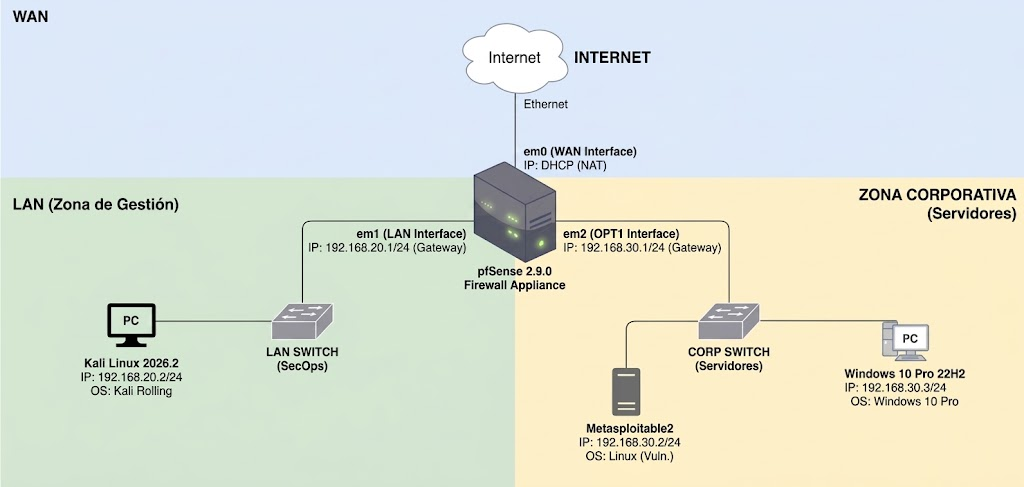
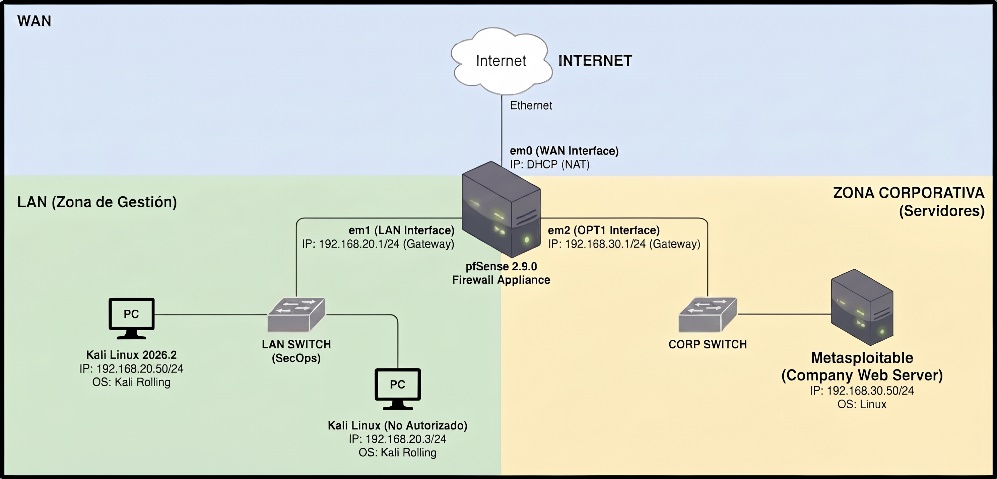
docs: correct lab report source, architecture and evidence provenance

diff --git a/docs/evidencias.md b/docs/evidencias.md
@@ -4,7 +4,7 @@
 
 ## Procedencia y lectura
 
-Las capturas proceden del DOCX principal. Se conservaron 15 de sus 43 imágenes, seleccionadas por pertinencia y ausencia de credenciales visibles. Se excluyen capturas con secretos, material redundante y pasos intermedios no necesarios para este miniproyecto. Los originales permanecen localmente.
+Las capturas proceden del DOCX principal. Se conservaron 15 de sus 42 imágenes únicas, seleccionadas por pertinencia y ausencia de credenciales visibles. Se sustituyó el diagrama por el de la versión corregida; las otras 14 capturas coinciden por SHA-256 con archivos de esa versión. Se excluyen capturas con secretos, material redundante y pasos intermedios no necesarios para este miniproyecto. Los originales permanecen localmente.
 
 Las imágenes se exportaron como PNG sin los metadatos originales. No se alteraron resultados ni se generaron pantallas de pruebas. La correspondencia y huellas están en [evidencias.json](../metadata/evidencias.json).
 
@@ -12,11 +12,11 @@ Las imágenes se exportaron como PNG sin los metadatos originales. No se alterar
 
 ## E-01 · Arquitectura declarada
 
-Diagrama original; identifica zonas, gateways y hosts del inventario inicial. No certifica las IP finales ni la versión instalada.
+Diagrama del informe corregido: pfSense, Kali administrativa `.20.50`, Kali no autorizada `.20.3` y Metasploitable2 `.30.50`. No incluye Windows. Se conserva como diseño declarado, no como certificación del estado de ejecución.
 
 ![Arquitectura declarada](../assets/evidencias/arquitectura-original.png)
 
-Origen: imagen 2 del documento principal.
+Origen: imagen 2 del documento corregido.
 
 ## E-02 · Conectividad inicial
 
@@ -24,7 +24,7 @@ Respuestas de ping hacia gateway y objetivo. Solo demuestra conectividad a los d
 
 ![Conectividad inicial](../assets/evidencias/conectividad-inicial.png)
 
-Origen: imagen 3 del documento principal.
+Origen: imagen 3 del documento corregido.
 
 ## E-03 · Tabla ARP del cliente
 
@@ -32,7 +32,7 @@ Asociaciones observadas durante el escenario inicial. La repetición de una MAC 
 
 ![Tabla ARP del cliente](../assets/evidencias/arp-cliente-inicial.png)
 
-Origen: imagen 4 del documento principal.
+Origen: imagen 4 del documento corregido.
 
 ## E-04 · Configuración Static ARP
 
@@ -40,7 +40,7 @@ Opción habilitada y dos mapeos visibles (.100 y .101). La narrativa menciona un
 
 ![Configuración Static ARP](../assets/evidencias/static-arp-configuracion.png)
 
-Origen: imagen 6 del documento principal.
+Origen: imagen 5 del documento corregido.
 
 ## E-05 · Tabla ARP del gateway
 
@@ -48,7 +48,7 @@ Captura de pfSense incluida como estado posterior. No sustituye una prueba de pr
 
 ![Tabla ARP del gateway](../assets/evidencias/arp-gateway-posterior.png)
 
-Origen: imagen 7 del documento principal.
+Origen: imagen 7 del documento corregido.
 
 ## E-06 · Intento de conectividad posterior
 
@@ -56,7 +56,7 @@ La salida indica Network is unreachable. No prueba por sí sola descarte de paqu
 
 ![Intento de conectividad posterior](../assets/evidencias/conectividad-posterior.png)
 
-Origen: imagen 8 del documento principal.
+Origen: imagen 8 del documento corregido.
 
 ## E-07 · Registros de filtrado Telnet
 
@@ -64,7 +64,7 @@ Bloqueos al puerto 23 desde .30 y acceso permitido desde .100. Evidencia filtrad
 
 ![Registros de filtrado Telnet](../assets/evidencias/telnet-registros-firewall.png)
 
-Origen: imagen 11 del documento principal.
+Origen: imagen 11 del documento corregido.
 
 ## E-08 · Acceso SSH con clave
 
@@ -72,7 +72,7 @@ Comando con clave explícita y sesión exitosa sin solicitud de contraseña visi
 
 ![Acceso SSH con clave](../assets/evidencias/ssh-acceso-clave.png)
 
-Origen: imagen 12 del documento principal.
+Origen: imagen 12 del documento corregido.
 
 ## E-09 · Intento SSH rechazado
 
@@ -80,7 +80,7 @@ Connection refused en un intento documentado. Interpretar junto con reglas y reg
 
 ![Intento SSH rechazado](../assets/evidencias/ssh-origen-rechazado.png)
 
-Origen: imagen 13 del documento principal.
+Origen: imagen 13 del documento corregido.
 
 ## E-10 · Flujo SSH capturado
 
@@ -88,7 +88,7 @@ Banner/negociación visibles y carga posterior no legible como credenciales en c
 
 ![Flujo SSH capturado](../assets/evidencias/ssh-captura-flujo.png)
 
-Origen: imagen 14 del documento principal.
+Origen: imagen 14 del documento corregido.
 
 ## E-11 · Registro de fail2ban
 
@@ -96,7 +96,7 @@ Eventos de fallos de autenticación y acciones Ban/Unban. El log reúne momentos
 
 ![Registro de fail2ban](../assets/evidencias/fail2ban-registros.png)
 
-Origen: imagen 15 del documento principal.
+Origen: imagen 15 del documento corregido.
 
 ## E-12 · Captura TLS del laboratorio
 
@@ -104,7 +104,7 @@ Negociación TLSv1 y datos cifrados. TLS 1.0 es una limitación legacy, no una c
 
 ![Captura TLS del laboratorio](../assets/evidencias/tls-captura-flujo.png)
 
-Origen: imagen 16 del documento principal.
+Origen: imagen 16 del documento corregido.
 
 ## E-13 · Parámetros SSH declarados
 
@@ -112,7 +112,7 @@ Salida de configuración: root deshabilitado, claves habilitadas y contraseñas 
 
 ![Parámetros SSH declarados](../assets/evidencias/sshd-parametros.png)
 
-Origen: imagen 34 del documento principal.
+Origen: imagen 34 del documento corregido.
 
 ## E-14 · Reglas SSH por origen
 
@@ -120,7 +120,7 @@ Regla de permiso administrativa y regla de bloqueo posterior. Nombres de alias n
 
 ![Reglas SSH por origen](../assets/evidencias/ssh-reglas-origen.png)
 
-Origen: imagen 37 del documento principal.
+Origen: imagen 37 del documento corregido.
 
 ## E-15 · Parámetros fail2ban de prueba
 
@@ -128,12 +128,12 @@ maxretry=3 y bantime=30. Valores para el ejercicio; no se presentan como políti
 
 ![Parámetros fail2ban de prueba](../assets/evidencias/fail2ban-parametros.png)
 
-Origen: imagen 39 del documento principal.
+Origen: imagen 39 del documento corregido.
 
 ## Material no publicado
 
 Se omitieron las capturas Telnet/HTTP con credenciales en claro, pantallas de autenticación innecesarias, resultados sensibles de pruebas de contraseñas y pantallas de preparación redundantes. Su exclusión impide usar este repo para recuperar secretos del laboratorio.
 
-Windows/RDP/auditoría no cuenta con evidencia específica suficiente en este conjunto. No se declara su validación.
+Windows/RDP/auditoría no forma parte del desarrollo técnico de la versión corregida. La fila Windows que permanece en el anexo 2 no se utiliza como evidencia de ejecución.
 
 La evidencia de conectividad posterior y el log Telnet tienen límites señalados: error de ruta y excepción de acceso, respectivamente. No se interpretan como aislamiento universal ni eliminación total de protocolos inseguros.

diff --git a/docs/informe-tecnico.md b/docs/informe-tecnico.md
@@ -10,7 +10,7 @@ El proyecto estudió dos problemas relacionados: la conectividad de un dispositi
 
 La estrategia combinó protección del gateway, filtrado de servicios, autenticación SSH por clave, cifrado web y controles locales de autenticación. La selección de capturas permite revisar parte de los cambios y sus resultados; las afirmaciones del informe original que no tienen evidencia suficiente se mantienen como **declaradas**, no como verificadas.
 
-Este documento es una adaptación profesional del trabajo académico, no un acta de ejecución nueva. No se iniciaron máquinas, escáneres ni servicios al elaborarlo.
+Esta edición se basa en el informe corregido aportado por el usuario, que sustituye la fuente seleccionada para la primera publicación. Es una adaptación profesional del trabajo académico, no un acta de ejecución nueva. No se iniciaron máquinas, escáneres ni servicios al elaborarlo.
 
 ## 2. Objetivos y alcance
 
@@ -30,13 +30,13 @@ Documentar cómo controles complementarios pueden reducir riesgos de acceso no a
 
 ### Fuera del alcance
 
-No se evaluaron todos los servicios, no se corrigieron las vulnerabilidades de Metasploitable2/DVWA, no se realizó una auditoría integral de Windows y no se implementaron controles de switch administrable. La documentación no demuestra una política completa de filtrado saliente ni una validación exhaustiva de todas las reglas.
+No se evaluaron todos los servicios, no se corrigieron las vulnerabilidades de Metasploitable2/DVWA y no se implementaron controles de switch administrable. Windows, RDP y eventos de auditoría Windows no se incluyen como componentes ni controles del desarrollo corregido. La documentación no demuestra una política completa de filtrado saliente ni una validación exhaustiva de todas las reglas.
 
 ## 3. Entorno
 
-La arquitectura declarada utiliza VMware Workstation Pro. pfSense conecta WAN por NAT, LAN–Gestión en VMnet2 (`192.168.20.0/24`) y CORPORATIVA en VMnet3 (`192.168.30.0/24`). Kali representa una estación administrativa/de auditoría y los objetivos incluyen Metasploitable2 y Windows 10 Pro.
+La arquitectura declarada utiliza VMware Workstation Pro. pfSense conecta WAN por NAT, LAN–Gestión en VMnet2 (`192.168.20.0/24`) y CORPORATIVA en VMnet3 (`192.168.30.0/24`). Kali representa las estaciones de administración/auditoría y de prueba no autorizada; Metasploitable2 es el servidor corporativo descrito en el cuerpo del informe y en el diagrama corregido.
 
-El informe identifica pfSense como 2.9.0. Se registra esa versión como declarada por el trabajo, sin contrastarla contra una instancia activa. La topología usa `.2` para Kali y Metasploitable, mientras varias pruebas usan `.100`. La [documentación de arquitectura](arquitectura.md) conserva la discrepancia; no se ha supuesto un estado final.
+El informe identifica pfSense como 2.9.0. Se registra esa versión como declarada por el trabajo, sin contrastarla contra una instancia activa. El nuevo diagrama usa `192.168.20.50` para la estación administrativa, `192.168.20.3` para la no autorizada y `192.168.30.50` para el servidor. La tabla del anexo 2 aún usa `.2` y conserva una fila Windows; varias capturas usan `.100` y `.30`. La [documentación de arquitectura](arquitectura.md) distingue esos niveles de evidencia sin inventar un estado final.
 
 ## 4. Escenario de riesgo
 
@@ -96,11 +96,9 @@ Se documenta un jail para SSH con tres reintentos y un bloqueo de 30 segundos pa
 
 Las notas complementarias mencionan otros tiempos y nombres de jail. Se toma como referencia de la prueba el valor mostrado en la captura, sin imponerlo como una política adecuada para cualquier entorno.
 
-### C-06. Windows: RDP y auditoría
+### Delimitación del alcance corregido
 
-El informe describe filtrado de RDP por IP y auditoría de autenticación con eventos 4624/4625. No se dispone de capturas específicas suficientes dentro de la evidencia conservada para validar esas medidas. Se mantienen como **controles declarados pendientes de evidencia**, no como resultados demostrados.
-
-Se evita la afirmación del texto original de que los registros son inalterables: la política de auditoría, los permisos, la retención y la protección de registros deben evaluarse. No todo bloqueo de red se traduce necesariamente en un evento de autenticación fallida.
+Se retiran de esta edición los controles de RDP, los eventos 4624/4625 y la auditoría de Windows que se habían trasladado desde el informe anterior. No se convierten en tareas pendientes del proyecto: ya no forman parte de su desarrollo. La fila Windows que aún aparece en el anexo 2 se registra únicamente como una referencia residual del documento fuente.
 
 ## 6. Validación y resultados
 
@@ -112,7 +110,6 @@ Se evita la afirmación del texto original de que los registros son inalterables
 | ¿Se logró acceso SSH usando una clave? | Comando y sesión exitosa | Acceso observado; no verifica todos los métodos alternativos |
 | ¿La captura seguía mostrando credenciales legibles tras la migración? | Flujos SSH/TLS seleccionados | La carga mostrada no es legible como las comunicaciones iniciales descritas |
 | ¿Actuó fail2ban? | Parámetros y log con bloqueo | Acción de bloqueo documentada en el escenario |
-| ¿Se validó la auditoría/RDP de Windows? | Narrativa sin evidencia específica suficiente | Pendiente |
 
 La selección se detalla en [Evidencias](evidencias.md). Se excluyen capturas con contraseñas, cookies o resultados sensibles y no se publican archivos de captura completos.
 
@@ -128,5 +125,5 @@ La compatibilidad criptográfica legacy, la falta de una exportación operativa 
 2. Static ARP en pfSense no debe presentarse como una solución integral contra ARP spoofing en toda la LAN.
 3. El acceso SSH por clave y el cambio de protocolos reducen exposición en el caso evaluado, sin corregir las aplicaciones deliberadamente vulnerables.
 4. fail2ban aporta una reacción documentada a intentos fallidos, no garantía ante cualquier abuso de credenciales.
-5. Las afirmaciones sobre Windows y la configuración exacta requieren evidencia adicional.
+5. El alcance técnico vigente es pfSense y Linux. La fila residual de Windows del anexo y las diferencias de IP no se convierten en controles o pruebas realizados.
 6. El resultado más valioso es la trazabilidad: problema, control, prueba, limitación y siguiente paso. Una configuración funcional no equivale a seguridad absoluta.

diff --git a/docs/fuentes.md b/docs/fuentes.md
@@ -4,11 +4,11 @@
 
 ## 1. Fuente del trabajo
 
-**Documento principal:** `UPC-PRE-202620-1ACB0025-7615-INFORME-TB1-Grupo2.docx`, conservado localmente en la carpeta de informes del TB1. Se utilizó su texto completo y se revisaron sus 43 imágenes en hojas de contacto, con inspección ampliada de evidencias seleccionadas.
+**Documento principal:** `UPC-PRE-202620-1ACB0025-7615-INFORME-TB1-Grupo2.docx`, conservado localmente en la carpeta de informes del TB1. Se leyó el texto completo de la versión corregida. Contiene 42 archivos de imagen únicos y 43 apariciones de imagen. Se reemplazó el diagrama y se verificó que las otras 14 capturas publicadas coinciden por SHA-256 con imágenes de esta versión, conservando su revisión visual anterior.
 
 **Fuente complementaria:** `PFSENSE INSTALLATION.txt`, apuntes de instalación y pruebas. Se consultó para identificar contexto y discrepancias; no se publica porque contiene anotaciones operativas y material sensible. No se copia su contenido como un procedimiento validado.
 
-**Otra versión local:** una segunda copia del informe fue comparada por estructura y huella de texto. Es diferente y no se mezcló silenciosamente con el principal. Los originales, la presentación y la guía de actividad permanecen en sus carpetas; no se publican automáticamente.
+**Corrección de procedencia:** la primera publicación se basó en una versión anterior del informe. Esta edición la sustituye por el documento corregido indicado por el usuario; su huella se registra en `metadata/fuentes.json`. Los originales, la presentación y la guía de actividad no se publican automáticamente.
 
 Las huellas de las fuentes y la correspondencia de imágenes se registran en `metadata/`. No se incluyen rutas absolutas del equipo ni códigos universitarios.
 
@@ -18,7 +18,8 @@ Las huellas de las fuentes y la correspondencia de imágenes se registran en `me
 - Se conservaron diferencias de direccionamiento y versiones como datos declarados, no como un inventario final verificado.
 - Se distinguieron configuración, observación y conclusión. Un resultado parcial no se convierte en garantía general.
 - Se limitaron las afirmaciones de Static ARP al gateway y a las pruebas aportadas.
-- Se marcaron Windows/RDP/auditoría como pendientes de evidencia específica.
+- Se retiraron Windows/RDP/auditoría del alcance de controles; la fila Windows residual del anexo 2 no se interpreta como prueba realizada.
+- Se incorporaron las IP `.50` del nuevo diagrama y cuerpo del informe, manteniendo explícitas las diferencias respecto al anexo y a las capturas conservadas.
 - Se mantuvieron las limitaciones SSH/TLS legacy y fail2ban de prueba.
 - Se retiraron datos personales innecesarios y se omitieron capturas con credenciales.
 - No se ejecutaron las pruebas de nuevo al elaborar el repositorio.
@@ -27,13 +28,12 @@ Las huellas de las fuentes y la correspondencia de imágenes se registran en `me
 
 1. **Netgate — DHCPv4 Server:** diferencia clientes conocidos, mapeos estáticos y Static ARP; detalla su alcance hacia el firewall y las limitaciones del segmento local. [Documento oficial](https://docs.netgate.com/pfsense/en/latest/services/dhcp/ipv4.html).
 2. **IETF / RFC Editor — RFC 8996:** deprecación de TLS 1.0 y TLS 1.1. [Texto normativo](https://www.rfc-editor.org/rfc/rfc8996.html).
-3. **Microsoft — Audit Logon:** propósito de la auditoría de sesiones y eventos 4624/4625. [Documento oficial](https://learn.microsoft.com/en-us/previous-versions/windows/it-pro/windows-10/security/threat-protection/auditing/audit-logon).
 
 Se contrastaron los pasajes pertinentes recuperados de estas fuentes. No se declara haber auditado toda su documentación ni el cumplimiento de un sistema real.
 
 ## 4. Bibliografía del informe original
 
-El documento original también cita CIS Controls v8, NIST SP 800-30, SP 800-41, SP 800-115, OpenSSH, fail2ban, Wireshark y RFC 1918/4251. Se conserva esta información como bibliografía del trabajo: no se afirma haber consultado íntegramente esos documentos al preparar esta edición.
+El informe corregido también cita CIS Controls v8, NIST SP 800-30 y SP 800-41, OpenSSH, fail2ban, Wireshark y RFC 1918/4251. Se conserva esta información como bibliografía del trabajo: no se afirma haber consultado íntegramente esos documentos al preparar esta edición.
 
 ## 5. Informe frente a respaldo operativo
 

diff --git a/docs/arquitectura.md b/docs/arquitectura.md
@@ -16,24 +16,24 @@ Para VMnet2 y VMnet3 se documenta la desactivación del adaptador virtual del an
 
 La separación de redes crea el punto de control; su eficacia depende además de las reglas, interfaces y rutas efectivas. Dos clientes de la misma subred pueden comunicarse sin pasar por pfSense.
 
-## 2. Inventario declarado frente a pruebas
+## 2. Diagrama corregido, narrativa y evidencias
 
-| Activo | Inventario y diagrama inicial | Dirección visible en pruebas | Observación |
+| Activo | Diagrama corregido / cuerpo del informe | Anexo o captura conservada | Observación |
 |---|---|---|---|
 | Gateway LAN | `192.168.20.1/24` | `192.168.20.1` | Coincide |
 | Gateway corporativo | `192.168.30.1/24` | `192.168.30.1` | Coincide |
-| Kali administrativa | `192.168.20.2/24` | `192.168.20.100` | Hay variación entre diseño y evidencias |
-| Metasploitable2 | `192.168.30.2/24` | `192.168.30.100` | Hay variación entre diseño y evidencias |
-| Windows 10 Pro | `192.168.30.3/24` | No validado en las capturas seleccionadas | Mantener como activo declarado |
-| Cliente no registrado | No fijado en el inventario inicial | `192.168.20.30` en un intento de asignación manual | Dirección de una prueba, no servidor permanente |
+| Kali administrativa | `192.168.20.50/24` | Anexo 2: `.20.2`; capturas: `.20.100` | No homogeneizar fuentes de fases distintas sin confirmación |
+| Metasploitable2 | `192.168.30.50/24` | Anexo 2: `.30.2`; capturas: `.30.100` | No homogeneizar fuentes de fases distintas sin confirmación |
+| Referencia residual a Windows | No figura en el diagrama corregido ni en el desarrollo de controles | Anexo 2: `192.168.30.3/24` | Fila conservada en el documento; fuera del alcance técnico de esta edición |
+| Kali no autorizada | `192.168.20.3/24` en el diagrama | `192.168.20.30` en una captura de asignación manual | Diferencia entre diseño corregido y prueba conservada |
 
 Además, la narrativa original menciona una única MAC autorizada en una fase, mientras la captura de Static ARP muestra mapeos `.100` y `.101`. No se determina si corresponden a fases distintas ni se identifica `.101` como atacante.
 
-No se determina si las variaciones corresponden a un cambio de fase, DHCP o una modificación del laboratorio. Se conservan ambas referencias para evitar una falsa reconstrucción de su estado final. Antes de reproducir, confirmar los hosts, leases, mapeos y reglas activos.
+No se determina si las variaciones corresponden a un cambio de fase, DHCP o una modificación del laboratorio. Se conservan por separado diagrama, narrativa, anexos y capturas para evitar una falsa reconstrucción de su estado final. Antes de reproducir, confirmar los hosts, leases, mapeos y reglas activos.
 
-## 3. Diagrama original
+## 3. Diagrama del informe corregido
 
-![Arquitectura declarada en el informe](../assets/evidencias/arquitectura-original.png)
+![Arquitectura del informe corregido](../assets/evidencias/arquitectura-original.png)
 
 El gráfico identifica pfSense como versión **2.9.0**, dato que también declara el informe. No se contrastó esa versión con una instancia en ejecución ni con un inventario exportado. Se registra como versión declarada, no como versión verificada por este repositorio.
 
@@ -55,7 +55,7 @@ Esta sección es una lista propuesta, no una declaración de pruebas nuevas:
 
 1. Crear las redes virtuales y confirmar que no unen el laboratorio a la LAN física.
 2. Identificar claramente WAN, LAN y OPT1 y sus gateways.
-3. Resolver las diferencias `.2` / `.100` antes de configurar reglas por IP.
+3. Resolver las diferencias `.2` / `.50` / `.100` y `.3` / `.30` antes de configurar reglas por IP.
 4. Documentar versión exacta de pfSense, backend DHCP y sistemas invitados.
 5. Revisar reglas automáticas y explícitas, su orden y alcance.
 6. Mantener los sistemas vulnerables sin publicación de puertos hacia redes no confiables.

diff --git a/docs/riesgo-residual.md b/docs/riesgo-residual.md
@@ -17,18 +17,17 @@ Esta matriz es cualitativa. No se asignan puntuaciones ni probabilidades numéri
 | DoS por intermediario sin reenvío | No mitigado en el trabajo | Riesgo abierto | Probar disponibilidad y mitigaciones L2 |
 | Vulnerabilidades en Metasploitable2/DVWA | No corregidas | Riesgo deliberadamente conservado | No exponer; mantener aislamiento del laboratorio |
 | Criptografía legacy | Excepciones por compatibilidad | Limitación reconocida | Sustituir objetivos o versiones para una implementación moderna |
-| Auditoría y RDP Windows | Descritos en la narrativa | No validados con evidencia específica | Capturar políticas, reglas, pruebas positivas/negativas y eventos |
 
 ## 2. Mejoras propuestas, no ejecutadas
 
 ### Prioridad A — Calidad de evidencia
 
 - Confirmar la versión de cada componente y registrar una línea base.
-- Resolver `.2` frente a `.100` en inventario, reglas y procedimientos.
+- Resolver `.2`, `.50` y `.100` en inventario, diagrama, reglas y procedimientos; revisar también `.3` frente a `.30` para el cliente no autorizado.
 - Repetir pruebas con direcciones y rutas controladas: `Network is unreachable` no prueba por sí solo un bloqueo de pfSense.
 - Conservar salidas y registros con fecha, origen, destino y criterio de éxito, sin secretos.
 - Añadir pruebas negativas de root y contraseña para SSH.
-- Incorporar la evidencia pendiente de Windows.
+- Depurar la fila residual Windows del anexo 2 si se vuelve a editar el informe académico; no incorporarla como control ni prueba del miniproyecto.
 
 ### Prioridad B — Límite del segmento local
 
@@ -53,12 +52,15 @@ RFC 8996 establece que TLS 1.0 y 1.1 no deben usarse. La evidencia legacy se con
 - Que una MAC autorizada equivalga a una identidad autenticada.
 - Que el cifrado evite todos los ataques MitM sin validación del servidor.
 - Que los logs locales sean inalterables.
-- Que un bloqueo en red siempre produzca un evento 4625 en Windows.
 - Que fail2ban impida ataques desde todas las fuentes o con credenciales válidas.
 - Que la configuración sea restaurable sin un respaldo operativo separado.
 
-## 4. Criterio de cierre
+## 4. Alcance de esta corrección
+
+Windows, RDP y la auditoría de Windows se retiraron del desarrollo del informe corregido. Por tanto, ya no se enumeran como controles realizados ni como validaciones pendientes del laboratorio. La referencia que aún existe en el anexo se señala como residual.
+
+## 5. Criterio de cierre
 
 El miniproyecto cumple un objetivo documental: explicar decisiones y mostrar evidencia seleccionada con límites. El cierre del laboratorio no equivale a cerrar todos sus riesgos.
 
-La eliminación de VM es una decisión separada. No se ha eliminado ninguna máquina. Si se borran, se pierde su estado salvo que exista otro respaldo; el informe y las capturas no lo reemplazan.
+La eliminación de VM es una decisión separada. Este repositorio conserva el informe y sus evidencias, no el estado de las máquinas. Si se borran sin otro respaldo, sus archivos internos, instantáneas y configuración operativa no pueden recuperarse a partir de este miniproyecto.

diff --git a/README.md b/README.md
@@ -4,6 +4,8 @@
 
 Miniproyecto documental derivado del TB1 de **Fundamentos en Ciberseguridad — UPC, Grupo 2**. Su objetivo es comunicar el problema, las decisiones defensivas, la evidencia antes/después y los riesgos que permanecen. No es una imagen de las máquinas ni una configuración lista para producción.
 
+> **Fuente vigente:** informe corregido aportado por el usuario; sustituye la selección anterior. Véase [historial de correcciones](CHANGELOG.md).
+
 > **Estado:** laboratorio académico documentado. Las pruebas pertenecen al trabajo original; no se volvieron a ejecutar al preparar este repositorio. No contiene discos virtuales, credenciales ni respaldos de configuración completos.
 
 ## Resumen ejecutivo
@@ -22,10 +24,9 @@ flowchart TB
     FW --> CORP["VMnet3 · Corporativa · 192.168.30.0/24"]
     MGMT --> KALI["Kali · estación administrativa / auditoría"]
     CORP --> LINUX["Metasploitable2 · servicios deliberadamente vulnerables"]
-    CORP --> WINDOWS["Windows 10 · endpoint de laboratorio"]
 ```
 
-**Importante:** el inventario inicial usa hosts `.2`; las pruebas utilizan también `.100`. Esta diferencia se conserva y explica en [Arquitectura](docs/arquitectura.md), sin inventar una configuración final homogénea.
+**Alcance actualizado:** pfSense, Kali y Metasploitable2. El diagrama corregido utiliza `.50` para los hosts autorizados; los anexos conservan `.2` y algunas capturas `.100`. Estas diferencias se documentan en [Arquitectura](docs/arquitectura.md), sin atribuir a Windows pruebas que no forman parte del desarrollo corregido.
 
 ## Controles y resultados
 
@@ -36,7 +37,6 @@ flowchart TB
 | SSH por clave | Configuración y acceso exitoso con clave explícita | Servidor legado y excepciones de compatibilidad |
 | HTTPS | Captura con negociación TLS y carga cifrada | TLS 1.0: demostración histórica, no perfil de producción |
 | fail2ban | Parámetros y registro de bloqueo | Bloqueo reactivo; 30 segundos usados para prueba |
-| RDP y auditoría Windows | Descritos en el informe original | No se conserva evidencia específica suficiente para declarar su validación |
 
 ## Recorrido del proyecto
 

diff --git a/CHANGELOG.md b/CHANGELOG.md
@@ -1,0 +1,17 @@
+# Historial de correcciones
+
+## Corrección de fuente — informe actualizado
+
+La primera publicación utilizó una versión anterior del informe académico. Esta revisión sustituye esa fuente por el documento corregido indicado por el usuario y actualiza el repositorio sin reescribir el historial Git.
+
+### Cambios
+
+- Retirados Windows, RDP y los eventos de auditoría de Windows de los controles y pruebas del miniproyecto.
+- Sustituido el diagrama por el de la versión corregida: pfSense, Kali administrativa, Kali no autorizada y Metasploitable2.
+- Incorporadas las direcciones `.50` del diagrama y cuerpo del informe; conservadas explícitamente las diferencias del anexo `.2` y las capturas `.100`, así como `.3` / `.30` para el equipo no autorizado.
+- La fila Windows que aún existe en el anexo 2 se identifica como referencia residual, no como un activo probado en el desarrollo corregido.
+- Actualizadas las huellas de la fuente, los nombres de imágenes originales y sus índices de aparición. El documento contiene 42 imágenes únicas y 43 apariciones; se conservan 15 imágenes seleccionadas.
+- Conservadas las 14 capturas anteriores que coinciden por contenido con la nueva fuente. Se mantienen sus límites de interpretación: error de ruta, excepción Telnet y compatibilidad legacy.
+- Retiradas las referencias de auditoría Windows y NIST SP 800-115 que ya no corresponden a la bibliografía del informe corregido.
+
+La corrección no implica pruebas nuevas, restauración de máquinas ni publicación del DOCX o de respaldos con secretos. La huella de la fuente vigente consta en [metadata/fuentes.json](metadata/fuentes.json).
